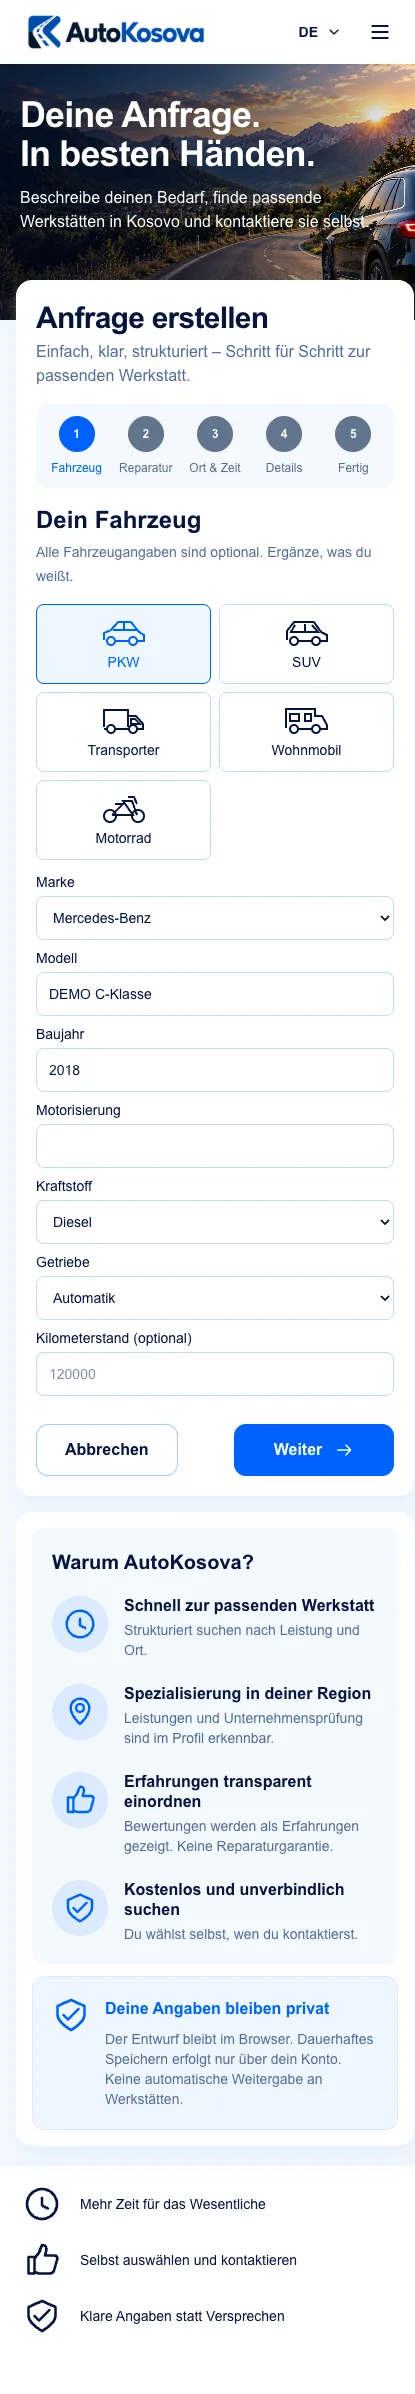
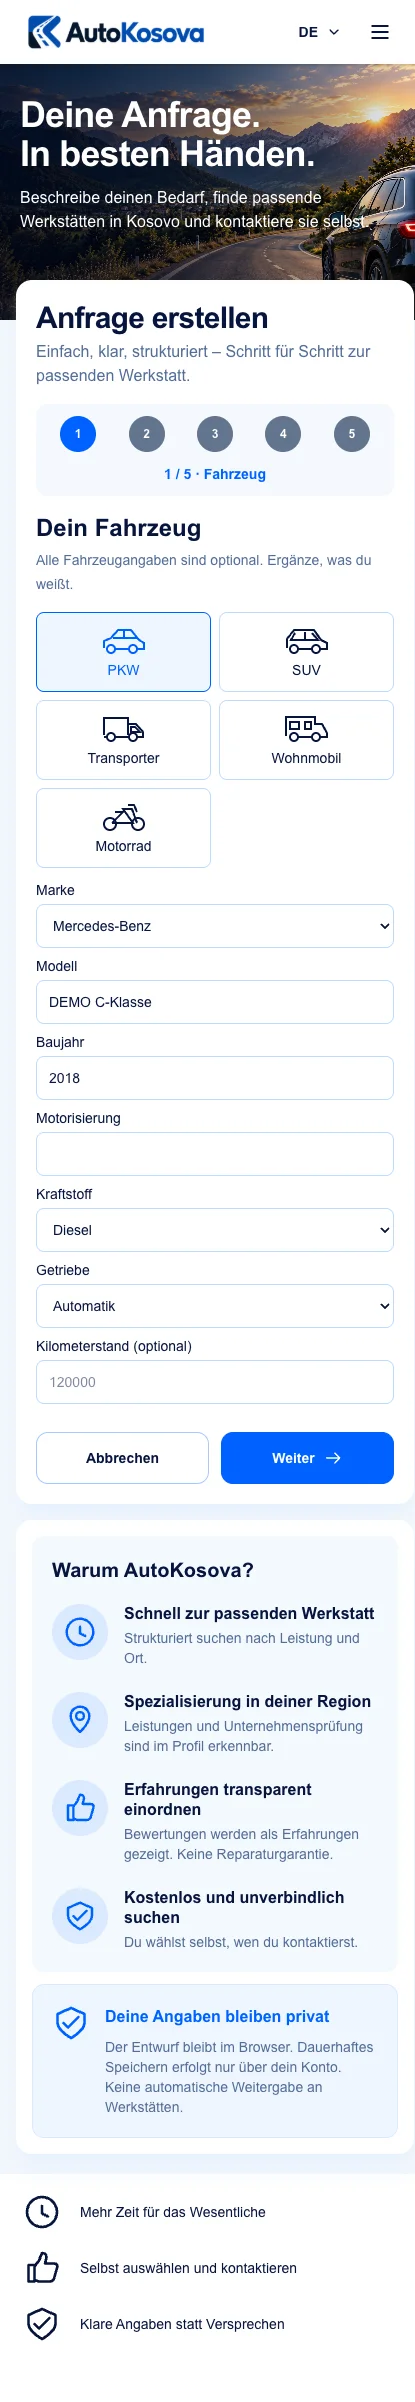
fix: improve mobile inquiry steps and align sticky navigation (#43)

diff --git a/src/app/repair-request.component.html b/src/app/repair-request.component.html
@@ -1,6 +1,6 @@
 <div class="min-h-screen bg-[#f2f7fc] text-ink">
   <div class="sticky top-0 z-50 bg-white px-3 shadow-sm lg:px-8">
-    <app-site-header [compact]="true" />
+    <app-site-header [compact]="true" active="request" />
   </div>
   <header class="relative isolate min-h-64 overflow-hidden px-5 pt-8 pb-20 sm:px-10 lg:px-16">
     <img
@@ -39,35 +39,33 @@
         {{ text('title') }}
       </h2>
       <p class="mt-1 text-muted">{{ text('subtitle') }}</p>
-      <ol
-        class="my-4 flex items-start justify-between gap-1 rounded-xl bg-[#f5f9fe] px-2 py-3 text-xs sm:gap-2 sm:px-4 sm:text-sm"
-        [attr.aria-label]="text('steps')"
-      >
-        @for (
-          label of [
-            language.t('request.stepVehicle'),
-            text('repair'),
-            text('placeTime'),
-            text('details'),
-            text('done'),
-          ];
-          track $index;
-          let index = $index
-        ) {
-          <li
-            class="flex min-w-0 flex-1 flex-col items-center gap-2 text-center text-muted xl:flex-row"
-            [attr.aria-current]="step === index + 1 ? 'step' : null"
-          >
-            <span
-              class="flex size-9 shrink-0 items-center justify-center rounded-full font-bold text-white"
-              [class.bg-brand]="step === index + 1"
-              [class.bg-slate-500]="step !== index + 1"
-              >{{ index + 1 }}</span
+      <div class="my-4 rounded-xl bg-[#f5f9fe] p-3 sm:px-4">
+        <ol
+          class="grid grid-cols-5 gap-2 text-xs sm:gap-3 sm:text-sm"
+          [attr.aria-label]="text('steps')"
+        >
+          @for (label of stepLabels; track $index; let index = $index) {
+            <li
+              class="flex min-w-0 flex-col items-center gap-2 text-center text-muted xl:flex-row"
+              [attr.aria-current]="step === index + 1 ? 'step' : null"
+              [attr.aria-label]="index + 1 + '. ' + label"
             >
-            <span [class.text-brand]="step === index + 1">{{ label }}</span>
-          </li>
-        }
-      </ol>
+              <span
+                class="flex size-9 shrink-0 items-center justify-center rounded-full font-bold text-white"
+                [class.bg-brand]="step === index + 1"
+                [class.bg-slate-500]="step !== index + 1"
+                >{{ index + 1 }}</span
+              >
+              <span class="hidden sm:block" [class.text-brand]="step === index + 1">{{
+                label
+              }}</span>
+            </li>
+          }
+        </ol>
+        <p class="mt-3 text-center text-sm font-semibold text-brand sm:hidden" aria-hidden="true">
+          {{ step }} / 5 · {{ stepLabels[step - 1] }}
+        </p>
+      </div>
       <h3 #stepTitle tabindex="-1" class="mb-1 scroll-mt-24 text-2xl font-bold focus:outline-none">
         {{
           step === 1
@@ -414,23 +412,44 @@
         @if (statusMessage && !saved) {
           <p class="mt-5 text-sm font-semibold" role="status">{{ statusMessage }}</p>
         }
-        <div class="mt-7 flex flex-wrap items-center justify-between gap-3">
-          <div class="flex flex-wrap gap-2">
-            @if (step > 1) {
-              <button appButton="outline" type="button" (click)="previous()">
-                {{ language.t('request.back') }}
-              </button>
-            }
-            <button appButton="outline" type="button" (click)="cancel()">
-              {{ language.t('common.cancel') }}
+        <div class="mt-7 grid grid-cols-2 gap-3 sm:flex sm:items-center">
+          @if (step > 1) {
+            <button
+              appButton="outline"
+              type="button"
+              class="order-1 min-w-0 max-sm:gap-2 max-sm:px-3 max-sm:text-sm"
+              (click)="previous()"
+            >
+              {{ language.t('request.back') }}
             </button>
-          </div>
+          }
+          <button
+            appButton="outline"
+            type="button"
+            class="min-w-0 max-sm:px-3 max-sm:text-sm sm:order-2"
+            [class.col-span-2]="step > 1 && step < 5"
+            [class.order-3]="step > 1 && step < 5"
+            [class.order-1]="step === 1 || step === 5"
+            (click)="cancel()"
+          >
+            {{ language.t('common.cancel') }}
+          </button>
           @if (step < 5) {
-            <button appButton type="button" class="min-w-40" (click)="next()">
+            <button
+              appButton
+              type="button"
+              class="order-2 min-w-0 max-sm:gap-2 max-sm:px-3 max-sm:text-sm sm:order-3 sm:ml-auto sm:min-w-40"
+              (click)="next()"
+            >
               {{ language.t('request.next') }}<app-icon name="arrow" class="size-5" />
             </button>
           } @else {
-            <button appButton type="button" (click)="search()">
+            <button
+              appButton
+              type="button"
+              class="order-3 col-span-2 min-w-0 max-sm:gap-2 max-sm:px-3 max-sm:text-sm sm:ml-auto"
+              (click)="search()"
+            >
               {{ language.t('request.search') }}<app-icon name="arrow" class="size-5" />
             </button>
           }

diff --git a/src/app/site-header.component.html b/src/app/site-header.component.html
@@ -24,12 +24,17 @@
       class="hidden h-full items-center gap-8 text-[13px] font-semibold text-[#475569] md:flex"
       [attr.aria-label]="language.t('nav.main')"
     >
-      <a class="nav-link px-1" [routerLink]="language.link('request')">{{
-        language.t('nav.newRequest')
-      }}</a>
+      <a
+        class="nav-link px-1"
+        [class.nav-link-active]="active() === 'request'"
+        [attr.aria-current]="active() === 'request' ? 'page' : null"
+        [routerLink]="language.link('request')"
+        >{{ language.t('nav.newRequest') }}</a
+      >
       <a
         class="nav-link px-1 py-1"
         [class.nav-link-active]="active() === 'search'"
+        [attr.aria-current]="active() === 'search' ? 'page' : null"
         [href]="language.link('search')"
         >{{ language.t('nav.search') }}</a
       >
@@ -74,7 +79,17 @@
     <div class="grid gap-1">
       <a
         class="nav-link"
-        [href]="language.link('home') + '#werkstatt-suche'"
+        [class.nav-link-active]="active() === 'request'"
+        [attr.aria-current]="active() === 'request' ? 'page' : null"
+        [routerLink]="language.link('request')"
+        (click)="closeMenu()"
+        >{{ language.t('nav.newRequest') }}</a
+      >
+      <a
+        class="nav-link"
+        [class.nav-link-active]="active() === 'search'"
+        [attr.aria-current]="active() === 'search' ? 'page' : null"
+        [href]="compact() ? language.link('search') : language.link('home') + '#werkstatt-suche'"
         (click)="closeMenu()"
         >{{ language.t('nav.search') }}</a
       >

diff --git a/src/app/search-handoff.component.ts b/src/app/search-handoff.component.ts
@@ -50,8 +50,11 @@ interface Area {
   imports: [ButtonDirective, FormsModule, IconComponent, RouterLink, SiteHeaderComponent],
   selector: 'app-search-handoff',
   template: ` <main class="min-h-screen bg-[#f4f8fe] text-ink" aria-labelledby="search-title">
+    <div class="sticky top-0 z-50 bg-white px-3 shadow-sm lg:px-8">
+      <app-site-header [compact]="true" active="search" />
+    </div>
     <section
-      class="relative isolate min-h-[340px] overflow-hidden bg-[#f4f7fc] px-4 pt-4 sm:px-8 lg:px-12 lg:pt-6"
+      class="relative isolate min-h-[276px] overflow-hidden bg-[#f4f7fc] px-4 sm:px-8 lg:px-12"
     >
       <div
         class="absolute right-0 top-0 -z-20 h-full w-full bg-[url('/images/search/search-hero-workshop.webp')] bg-cover bg-center opacity-25 md:w-[55%] md:opacity-100"
@@ -59,7 +62,6 @@ interface Area {
       <div
         class="absolute inset-0 -z-10 bg-gradient-to-r from-[#f4f7fc] via-[#f4f7fc]/95 to-transparent"
       ></div>
-      <app-site-header [active]="'search'" class="relative mx-auto block max-w-[1920px]" />
       <div
         class="relative mx-auto grid max-w-[1280px] grid-cols-1 items-end gap-6 px-2 py-8 md:grid-cols-12"
       >

diff --git a/src/app/site-header.component.spec.ts b/src/app/site-header.component.spec.ts
@@ -27,3 +27,26 @@ describe('Header account actions', () => {
     },
   );
 });
+
+describe('Active navigation', () => {
+  it.each([
+    ['request', '/inquiry'],
+    ['search', '/garages'],
+  ])('marks %s consistently on desktop and mobile', async (active, href) => {
+    await TestBed.configureTestingModule({
+      imports: [SiteHeaderComponent],
+      providers: [provideRouter([])],
+    }).compileComponents();
+    const fixture = TestBed.createComponent(SiteHeaderComponent);
+    fixture.componentRef.setInput('compact', true);
+    fixture.componentRef.setInput('active', active);
+    await fixture.whenStable();
+    const links = [
+      ...(fixture.nativeElement as HTMLElement).querySelectorAll<HTMLAnchorElement>(
+        'nav a.nav-link[aria-current="page"]',
+      ),
+    ];
+    expect(links).toHaveLength(2);
+    expect(links.every((link) => link.getAttribute('href') === href)).toBe(true);
+  });
+});

diff --git a/src/app/repair-request.component.ts b/src/app/repair-request.component.ts
@@ -77,6 +77,15 @@ export class RepairRequestComponent {
     ['thumb', 'footer2'],
     ['shield', 'footer3'],
   ] as const;
+  protected get stepLabels(): readonly string[] {
+    return [
+      this.language.t('request.stepVehicle'),
+      this.text('repair'),
+      this.text('placeTime'),
+      this.text('details'),
+      this.text('done'),
+    ];
+  }
   protected readonly vehicleClasses = REPAIR_REQUEST_VEHICLE_CLASSES;
   protected readonly transmissions = ['manual', 'automatic', 'semiAutomatic', 'other'] as const;
   protected isKnownTransmission(value: string): boolean {

diff --git a/src/app/site-header.component.ts b/src/app/site-header.component.ts
@@ -12,7 +12,7 @@ import { IconComponent } from './ui/icon.component';
 })
 export class SiteHeaderComponent {
   readonly compact = input(false);
-  readonly active = input<'search' | undefined>();
+  readonly active = input<'search' | 'request' | undefined>();
   protected readonly language = inject(LanguageService);
   private readonly menuButton = viewChild<ElementRef<HTMLButtonElement>>('menuButton');
   protected readonly menuOpen = signal(false);

diff --git a/src/app/app.spec.ts b/src/app/app.spec.ts
@@ -17,6 +17,7 @@ describe('Homepage', () => {
       providers: [
         provideRouter([
           { path: 'sq', component: FoundationComponent },
+          { path: 'inquiry', component: FoundationComponent },
           { path: 'en', component: FoundationComponent },
         ]),
         { provide: AnalyticsService, useValue: analytics },

diff --git a/docs/design/evidence/issue-43/README.md b/docs/design/evidence/issue-43/README.md
@@ -28,9 +28,9 @@ Fahrzeugschritt in DE/SQ/EN bei 1448, 1280, 360, 390 und 430 px geprüft. Zusät
 
 - `npm ci`, `npm run dev:demo`: eigene lokale PostgreSQL-DB, Migration 017 und öffentliche Demo-Daten erfolgreich.
 - `npm run format:check`, `npm run lint`, `npm run typecheck`: erfolgreich.
-- `npm test -- --watch=false`: 32 Tests erfolgreich, einschließlich 12 Anfrage-Tests und 6 Routentests.
+- `npm test -- --watch=false`: 34 Tests erfolgreich, einschließlich 12 Anfrage-Tests und 6 Routentests.
 - `npm run test:server` mit der eigenen lokalen `DATABASE_URL`: 57 bestanden, 2 profilspezifische Demo-Seed-Tests übersprungen (keine entsprechenden Testprofil-Flags). Persistenz mit neuen Feldern, Teilfahrzeug und Fremdzugriff tatsächlich gegen PostgreSQL geprüft.
-- `npm run build`, `npm run test:smoke`: erfolgreich. Buildwarnung: initiales Bundle rund 531 kB gegenüber 500 kB Warnschwelle; Fehlerschwelle unverändert.
+- `npm run build`, `npm run test:smoke`: erfolgreich. Buildwarnung: initiales Bundle rund 533 kB gegenüber 500 kB Warnschwelle; Fehlerschwelle unverändert.
 - Screenreader-Semantik (`aria-current`, Status-/Fehlermeldungen), Fokuswechsel und Eingabevalidierung automatisiert geprüft. Kein manueller Durchlauf mit einem Screenreader und keine native mobile Browserprüfung.
 - Echter OIDC-Login mit Testkonto nicht ausgeführt: dieser isolierte Worktree hat keine OIDC-Konfiguration. Private Speicherung und Berechtigungen wurden über die authentifizierte API in Tests geprüft; dies ersetzt den realen OIDC-Durchlauf nicht.
 
@@ -43,3 +43,11 @@ Der Assistent liegt unter `/inquiry`; Profile und Aufnahme unter `/garages/:gara
 Sitemap und Robots-Regeln berücksichtigen die neuen Pfade: Suchlisten und Aufnahme bleiben ausgeschlossen, öffentliche Profilpfade werden nicht durch eine zu breite `/garages`-Regel gesperrt. Login-Rücksprünge akzeptieren nur den kanonischen Anfragepfad bzw. bekannte deutsche Vorgänger, die direkt auf `/inquiry` normalisiert werden.
 
 Die Anfrageseite hat eine sticky Navigation: im Mobilbrowser nach 800 px Scrollen bleibt die Kopfzeile bei 0–64 px sichtbar. [Scrollnachweis](sticky-mobile.webp). Getriebe ist eine optionale Auswahl; ältere Freitexte bleiben als bisheriger Wert erhalten.
+
+## Mobile Schrittanzeige und gemeinsame Navigation
+
+Auf schmalen Displays zeigt die Schrittleiste fünf nummerierte Indikatoren und die vollständige Bezeichnung des aktuellen Schritts in einer eigenen Zeile. Alle fünf Beschriftungen bleiben für Screenreader verfügbar. [Mobile Schrittanzeige](mobile-steps.webp).
+
+Im ersten Schritt stehen Abbrechen und Weiter nebeneinander: bei 360 px jeweils 130,5 × 52 px. In Folgeschritten stehen Zurück und Weiter in derselben Zeile, Abbrechen darunter; die lange Suchaktion erhält im Abschluss eine volle Zeile. [Mobile Aktionen](mobile-actions.webp).
+
+Neue Anfrage und Werkstätten finden haben auf ihrer jeweiligen Seite einen blauen 3-px-Unterstrich sowie `aria-current="page"`, auch im mobilen Menü. Die Suche verwendet denselben kompakten sticky Header wie die Anfrage. Nach 800 px Scrollen bleibt er auf beiden Seiten bei 0–64 px: [Suche Desktop](garages-sticky-1448.webp), [Suche Mobil](garages-sticky-390.webp). DE/SQ/EN wurden erneut in allen fünf Vergleichsbreiten ohne horizontalen Überlauf geprüft.
